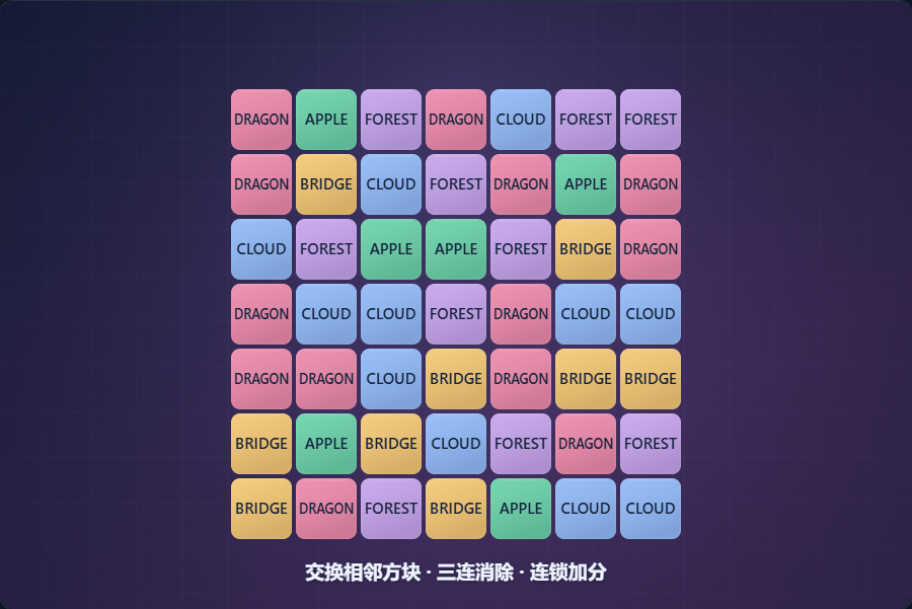
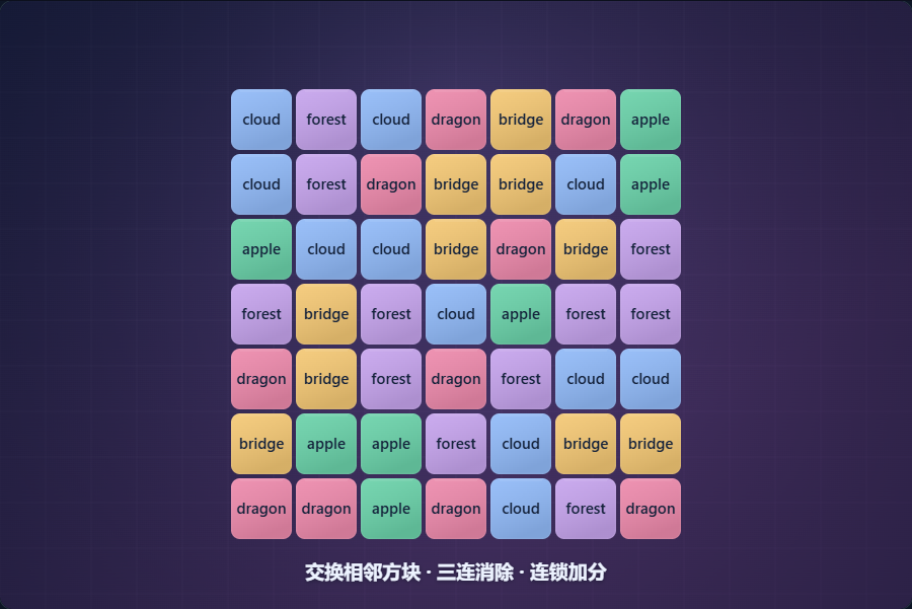
Display game vocabulary in lowercase while preserving special casing

Changed region(s): [[0.2456, 0.1248, 0.7675, 0.9048]]

diff --git a/arcade/classic.js b/arcade/classic.js
@@ -30,12 +30,12 @@ function wordSearch(){const puzzle=ArcadeRules.search(words),found=new Set();let
 }
 function crossword(){const puzzle=ArcadeRules.crossword(words);if(puzzle.entries.length<2){shell('G02','纵横填字','<h2>这些词暂时无法组成交叉网格</h2><p>请在词库中增加有相同字母的单词，例如 apple、plane、pencil。</p>','单词需要共享至少一个字母才能纵横交叉。');return}
   let selected=puzzle.entries[0],active=selected.cells[0];const values=new Map(),key=p=>p.r+','+p.c;const starts=new Map(puzzle.entries.map(e=>[key({r:e.r,c:e.c}),e.number]));
-  shell('G02','纵横填字',`<h2>纵横交叉，共享字母</h2><div class="cross-current" id="current-clue"></div><div class="cross-scroll"><div class="cross classic-cross" style="--cols:${puzzle.cols}">${puzzle.grid.flatMap((row,r)=>row.map((ch,c)=>ch?`<label class="cross-square" data-cell="${r},${c}"><small>${starts.get(`${r},${c}`)||''}</small><input maxlength="1" class="cell" data-r="${r}" data-c="${c}" aria-label="第 ${r+1} 行第 ${c+1} 列" autocomplete="off" autocapitalize="characters" spellcheck="false"></label>`:'<div class="cross-block"></div>')).join('')}</div></div><div class="cross-clues">${['across','down'].map(axis=>`<section><h3>${axis==='across'?'横向 →':'纵向 ↓'}</h3>${puzzle.entries.filter(e=>e.axis===axis).sort((a,b)=>a.number-b.number).map(e=>`<button data-entry="${puzzle.entries.indexOf(e)}">${e.number}. ${esc(e.zh)}（${e.en.length}）</button>`).join('')}</section>`).join('')}</div><button id="check" class="primary">检查答案</button> <button id="direction">切换横 / 纵</button><p id="result" role="status"></p>${puzzle.omitted.length?`<p class="muted">本盘 ${puzzle.entries.length} 个相互交叉的词。另有 ${puzzle.omitted.length} 个词未能拼入本盘。</p>`:''}`,'依据横向和纵向线索填入单词。交叉格由两个单词共享；点击线索切换单词，连续输入自动前进。方向键移动，空格或交叉格重复点击切换方向，退格删除。');
+  shell('G02','纵横填字',`<h2>纵横交叉，共享字母</h2><div class="cross-current" id="current-clue"></div><div class="cross-scroll"><div class="cross classic-cross" style="--cols:${puzzle.cols}">${puzzle.grid.flatMap((row,r)=>row.map((ch,c)=>ch?`<label class="cross-square" data-cell="${r},${c}"><small>${starts.get(`${r},${c}`)||''}</small><input maxlength="1" class="cell" data-r="${r}" data-c="${c}" aria-label="第 ${r+1} 行第 ${c+1} 列" autocomplete="off" autocapitalize="off" spellcheck="false"></label>`:'<div class="cross-block"></div>')).join('')}</div></div><div class="cross-clues">${['across','down'].map(axis=>`<section><h3>${axis==='across'?'横向 →':'纵向 ↓'}</h3>${puzzle.entries.filter(e=>e.axis===axis).sort((a,b)=>a.number-b.number).map(e=>`<button data-entry="${puzzle.entries.indexOf(e)}">${e.number}. ${esc(e.zh)}（${e.en.length}）</button>`).join('')}</section>`).join('')}</div><button id="check" class="primary">检查答案</button> <button id="direction">切换横 / 纵</button><p id="result" role="status"></p>${puzzle.omitted.length?`<p class="muted">本盘 ${puzzle.entries.length} 个相互交叉的词。另有 ${puzzle.omitted.length} 个词未能拼入本盘。</p>`:''}`,'依据横向和纵向线索填入单词。交叉格由两个单词共享；点击线索切换单词，连续输入自动前进。方向键移动，空格或交叉格重复点击切换方向，退格删除。');
   const inputs=[...document.querySelectorAll('.classic-cross input')],bykey=new Map(inputs.map(b=>[key({r:+b.dataset.r,c:+b.dataset.c}),b]));function select(entry,p,focus=true){selected=entry;active=p||entry.cells[0];document.querySelectorAll('.cross-square').forEach(b=>{b.classList.toggle('word-active',selected.cells.some(p=>key(p)===b.dataset.cell));b.classList.toggle('cell-active',b.dataset.cell===key(active))});document.querySelectorAll('[data-entry]').forEach(b=>b.classList.toggle('clue-active',puzzle.entries[+b.dataset.entry]===selected));document.querySelector('#current-clue').textContent=`${entry.number} ${entry.axis==='across'?'横向 →':'纵向 ↓'} · ${entry.zh}（${entry.en.length} 个字母）`;if(focus)bykey.get(key(active)).focus()}
   function toggle(){let options=puzzle.entries.filter(e=>e.cells.some(p=>key(p)===key(active)));select(options.find(e=>e!==selected)||selected,active)}
   function step(delta){let i=selected.cells.findIndex(p=>key(p)===key(active));if(selected.cells[i+delta])select(selected,selected.cells[i+delta])}
-  function check(auto=false){let right=inputs.filter(b=>b.value.toUpperCase()===puzzle.grid[+b.dataset.r][+b.dataset.c]).length;updateScore(`已填 ${inputs.filter(b=>b.value).length}/${inputs.length} 格`);if(right===inputs.length){inputs.forEach(b=>b.disabled=true);finish('G02',puzzle.entries.length*100,'纵横填字完成！')}else if(!auto){inputs.forEach(b=>b.parentElement.classList.toggle('incorrect',!!b.value&&b.value.toUpperCase()!==puzzle.grid[+b.dataset.r][+b.dataset.c]));document.querySelector('#result').textContent='已标出不正确的字母。空格还需要继续填写。'}}
-  inputs.forEach(b=>{let p={r:+b.dataset.r,c:+b.dataset.c};on(b,'click',()=>{if(round.done)return;if(key(active)===key(p))toggle();else select(puzzle.entries.find(e=>e.axis===selected.axis&&e.cells.some(x=>key(x)===key(p)))||puzzle.entries.find(e=>e.cells.some(x=>key(x)===key(p))),p)});on(b,'input',()=>{b.value=b.value.replace(/[^a-z]/ig,'').toUpperCase();values.set(key(p),b.value);b.parentElement.classList.remove('incorrect');if(b.value)step(1);check(true)});on(b,'keydown',e=>{if(round.done)return;if(e.key===' '){e.preventDefault();toggle()}else if(e.key==='Backspace'){e.preventDefault();if(!b.value)step(-1);let input=bykey.get(key(active));input.value='';input.parentElement.classList.remove('incorrect');check(true)}else if(e.key==='Tab'){e.preventDefault();let i=puzzle.entries.indexOf(selected);select(puzzle.entries[(i+(e.shiftKey?-1:1)+puzzle.entries.length)%puzzle.entries.length])}else if(e.key.startsWith('Arrow')){e.preventDefault();let dr=e.key==='ArrowDown'?1:e.key==='ArrowUp'?-1:0,dc=e.key==='ArrowRight'?1:e.key==='ArrowLeft'?-1:0,np={r:p.r+dr,c:p.c+dc};if(bykey.has(key(np)))select(puzzle.entries.find(x=>x.axis===(dr?'down':'across')&&x.cells.some(t=>key(t)===key(np)))||selected,np)}})});
+  function check(auto=false){let right=inputs.filter(b=>b.value.toLowerCase()===puzzle.grid[+b.dataset.r][+b.dataset.c].toLowerCase()).length;updateScore(`已填 ${inputs.filter(b=>b.value).length}/${inputs.length} 格`);if(right===inputs.length){inputs.forEach(b=>b.disabled=true);finish('G02',puzzle.entries.length*100,'纵横填字完成！')}else if(!auto){inputs.forEach(b=>b.parentElement.classList.toggle('incorrect',!!b.value&&b.value.toLowerCase()!==puzzle.grid[+b.dataset.r][+b.dataset.c].toLowerCase()));document.querySelector('#result').textContent='已标出不正确的字母。空格还需要继续填写。'}}
+  inputs.forEach(b=>{let p={r:+b.dataset.r,c:+b.dataset.c};on(b,'click',()=>{if(round.done)return;if(key(active)===key(p))toggle();else select(puzzle.entries.find(e=>e.axis===selected.axis&&e.cells.some(x=>key(x)===key(p)))||puzzle.entries.find(e=>e.cells.some(x=>key(x)===key(p))),p)});on(b,'input',()=>{const letter=b.value.replace(/[^a-z]/ig,'');const expected=puzzle.grid[p.r][p.c];b.value=expected===expected.toUpperCase()?letter.toUpperCase():letter.toLowerCase();values.set(key(p),b.value);b.parentElement.classList.remove('incorrect');if(b.value)step(1);check(true)});on(b,'keydown',e=>{if(round.done)return;if(e.key===' '){e.preventDefault();toggle()}else if(e.key==='Backspace'){e.preventDefault();if(!b.value)step(-1);let input=bykey.get(key(active));input.value='';input.parentElement.classList.remove('incorrect');check(true)}else if(e.key==='Tab'){e.preventDefault();let i=puzzle.entries.indexOf(selected);select(puzzle.entries[(i+(e.shiftKey?-1:1)+puzzle.entries.length)%puzzle.entries.length])}else if(e.key.startsWith('Arrow')){e.preventDefault();let dr=e.key==='ArrowDown'?1:e.key==='ArrowUp'?-1:0,dc=e.key==='ArrowRight'?1:e.key==='ArrowLeft'?-1:0,np={r:p.r+dr,c:p.c+dc};if(bykey.has(key(np)))select(puzzle.entries.find(x=>x.axis===(dr?'down':'across')&&x.cells.some(t=>key(t)===key(np)))||selected,np)}})});
   document.querySelectorAll('[data-entry]').forEach(b=>on(b,'click',()=>{if(!round.done)select(puzzle.entries[+b.dataset.entry])}));on(document.querySelector('#direction'),'click',()=>{if(!round.done)toggle()});on(document.querySelector('#check'),'click',()=>{if(!round.done)check()});select(selected,active,false);updateScore(`已填 0/${inputs.length} 格`);
 }
 function catchGame(){let pool=ArcadeRules.normalize(words),target=pool[0],objects=[],score=0,lives=3,combo=0,level=1,x=450,elapsed=0,spawn=0,running=false,paused=false,last=0;const keys=new Set();

diff --git a/arcade/games-action.js b/arcade/games-action.js
@@ -1,12 +1,12 @@
 Arcade.register('G15',()=>{
  const e=Arcade.start('G15','移动磁铁，按住吸附键将附近字母吸向自己，松开字母会继续惯性漂移。按目标顺序吸到字母组成单词，错误字母会弹开。完成 3 个词获胜。',[{key:' ',label:'按住磁吸'}]);
- let player={x:450,y:320},letters=[],index=0,completed=0;function setup(){index=0;letters=[...e.target.en,...'AEIOUXYZ'].map(ch=>({ch,x:Arcade.rand(70,830),y:Arcade.rand(90,530),vx:Arcade.rand(-20,20),vy:Arcade.rand(-20,20),cool:0}));e.mission(`磁力拼词：${e.target.zh} · ${e.target.en}　先吸 ${e.target.en[0]}`)}setup();e.move=p=>{if(e.pointer.down){player.x=p.x;player.y=p.y}};
+ let player={x:450,y:320},letters=[],index=0,completed=0;function setup(){index=0;letters=[...e.target.en,...'aeiouxyz'].map(ch=>({ch,x:Arcade.rand(70,830),y:Arcade.rand(90,530),vx:Arcade.rand(-20,20),vy:Arcade.rand(-20,20),cool:0}));e.mission(`磁力拼词：${e.target.zh} · ${e.target.en}　先吸 ${e.target.en[0]}`)}setup();e.move=p=>{if(e.pointer.down){player.x=p.x;player.y=p.y}};
  e.update=dt=>{player.x+=((e.keys.has('ArrowRight')?1:0)-(e.keys.has('ArrowLeft')?1:0))*240*dt;player.y+=((e.keys.has('ArrowDown')?1:0)-(e.keys.has('ArrowUp')?1:0))*240*dt;player.x=Arcade.clamp(player.x,30,870);player.y=Arcade.clamp(player.y,70,565);for(const l of letters){l.cool=Math.max(0,l.cool-dt);let d=Arcade.dist(l,player);if((e.keys.has(' ')||e.pointer.down)&&d<180){l.vx+=(player.x-l.x)/(d||1)*400*dt;l.vy+=(player.y-l.y)/(d||1)*400*dt}l.x+=l.vx*dt;l.y+=l.vy*dt;l.vx*=Math.pow(.7,dt);l.vy*=Math.pow(.7,dt);if(l.x<25||l.x>875){l.vx*=-.8;l.x=Arcade.clamp(l.x,25,875)}if(l.y<70||l.y>575){l.vy*=-.8;l.y=Arcade.clamp(l.y,70,575)}if(d<32&&!l.cool){if(l.ch===e.target.en[index]){l.remove=true;index++;e.score+=30;if(index===e.target.en.length){completed++;if(completed>=3){e.end(true,'磁力拼词完成！');return}e.nextWord();setup();break}e.mission(`${e.target.zh} · ${e.target.en.slice(0,index)}${'＿'.repeat(e.target.en.length-index)}　下一个 ${e.target.en[index]}`)}else {l.vx=(l.x-player.x)*12;l.vy=(l.y-player.y)*12;l.cool=1;e.score=Math.max(0,e.score-5)}}}letters=letters.filter(l=>!l.remove);e.hud(`完成 ${completed}/3 · ${Math.max(0,90-Math.floor(e.elapsed))} 秒`);if(e.elapsed>=90)e.end(false,'磁吸时间结束')};
  e.draw=()=>{if(e.keys.has(' ')||e.pointer.down)e.circle(player.x,player.y,180,'#4a9e7d22');letters.forEach(l=>{e.circle(l.x,l.y,21,'#f0c477');e.text(l.ch,l.x,l.y+7,23,'#10243b')});e.text('∩',player.x,player.y+15,65,'#7aebc0');e.text(`已完成 ${completed} 个词`,450,35,19)};e.state={player,get letters(){return letters},get index(){return index}};
 });
 function letterVoyage(id,underwater){
  const e=Arcade.start(id,underwater?'方向键或拖动驾驶潜水员，在氧气耗尽前按顺序收集字母。回到上方水面可以补充氧气；避开水母和暗流。收齐一个词后返回水面交付，共 3 个。':'方向键驾驶飞船，存在惯性，反向推力可以刹车。按顺序收集字母，避开小行星；场地边缘可穿越。完成 3 个词。',[{key:' ',label:underwater?'快速上浮':'刹车'}]);
- let player={x:450,y:underwater?55:300,vx:0,vy:0},letters=[],hazards=[],index=0,done=0,oxygen=100,ready=false;function setup(){index=0;ready=false;letters=[...e.target.en,...'XYZ'].map(ch=>({ch,x:Arcade.rand(60,840),y:Arcade.rand(underwater?170:80,540)}));hazards=Array.from({length:underwater?5:7},()=>({x:Arcade.rand(50,850),y:Arcade.rand(180,550),vx:Arcade.rand(-55,55),vy:Arcade.rand(-30,30),r:underwater?23:28}));e.mission(`${underwater?'深海寻字母':'星际收集'}：${e.target.zh} · ${e.target.en}`)}setup();
+ let player={x:450,y:underwater?55:300,vx:0,vy:0},letters=[],hazards=[],index=0,done=0,oxygen=100,ready=false;function setup(){index=0;ready=false;letters=[...e.target.en,...'xyz'].map(ch=>({ch,x:Arcade.rand(60,840),y:Arcade.rand(underwater?170:80,540)}));hazards=Array.from({length:underwater?5:7},()=>({x:Arcade.rand(50,850),y:Arcade.rand(180,550),vx:Arcade.rand(-55,55),vy:Arcade.rand(-30,30),r:underwater?23:28}));e.mission(`${underwater?'深海寻字母':'星际收集'}：${e.target.zh} · ${e.target.en}`)}setup();
  e.move=p=>{if(e.pointer.down){player.vx=(p.x-player.x)*2;player.vy=(p.y-player.y)*2}};
  e.update=dt=>{let ax=(e.keys.has('ArrowRight')?1:0)-(e.keys.has('ArrowLeft')?1:0),ay=(e.keys.has('ArrowDown')?1:0)-(e.keys.has('ArrowUp')?1:0);player.vx+=ax*290*dt;player.vy+=ay*290*dt;if(e.keys.has(' ')){if(underwater)player.vy-=500*dt;else {player.vx*=.86;player.vy*=.86}}player.vx=Arcade.clamp(player.vx,-230,230);player.vy=Arcade.clamp(player.vy,-230,230);player.x+=player.vx*dt;player.y+=player.vy*dt;player.vx*=Math.pow(underwater?.35:.8,dt);player.vy*=Math.pow(underwater?.35:.8,dt);
    if(underwater){player.x=Arcade.clamp(player.x,25,875);player.y=Arcade.clamp(player.y,45,565);if(player.y<85){oxygen=Math.min(100,oxygen+60*dt);if(ready){done++;e.score+=200;if(done>=3){e.end(true,'深海任务完成！');return}e.nextWord();setup()}}else oxygen-=4*dt;if(oxygen<=0){e.hit();oxygen=100;player.y=55;player.vy=0}}else {player.x=(player.x+900)%900;player.y=(player.y+600)%600}

diff --git a/js/episode-games.js b/js/episode-games.js
@@ -3,7 +3,8 @@
 const EpisodeGames=(()=>{
  const ids=Array.from({length:27},(_,i)=>'G'+String(i+2).padStart(2,'0'));
  const escape=s=>String(s).replace(/[&<>"']/g,c=>({'&':'&amp;','<':'&lt;','>':'&gt;','"':'&quot;',"'":'&#39;'}[c]));
- function pack(vocab){const words=[],excluded=[],seen=new Set();for(const w of vocab||[]){const en=String(w.word||'').trim(),zh=String(w.meaningZh||w.meaning||'').trim();if(!/^[a-z]{2,16}$/i.test(en)||!zh){excluded.push(en||'未命名单词');continue}if(seen.has(en.toUpperCase()))continue;seen.add(en.toUpperCase());words.push({en,zh})}return {words,excluded}}
+ // Words is authoritative for proper names; do not capitalize ordinary vocabulary.
+ function pack(vocab){const words=[],excluded=[],seen=new Set();for(const w of vocab||[]){const raw=String(w.word||'').trim(),zh=String(w.meaningZh||w.meaning||'').trim();if(!/^[a-z]{2,16}$/i.test(raw)||!zh){excluded.push(raw||'未命名单词');continue}const key=raw.toLowerCase();if(seen.has(key))continue;seen.add(key);const preserveCase=w.preserveCase===true||/proper|专有/i.test(w.partOfSpeech||'')||(/^[A-Z][a-z]+$/.test(raw)&&!['Good','Thank','Internet'].includes(raw))||/^(TV|CD|DVD|BC|AD|AM|PM|USA|UK|US|UN|EU|NASA|BBC|DNA|RNA|USB|AI|IT|ABCs)$/.test(raw);words.push({en:preserveCase?raw:key,zh,preserveCase})}return {words,excluded}}
  function choose(previous=[]){const pool=ids.filter(id=>!previous.includes(id));for(let i=pool.length-1;i>0;i--){let j;do{const n=new Uint32Array(1);crypto.getRandomValues(n);const limit=Math.floor(4294967296/(i+1))*(i+1);if(n[0]<limit){j=n[0]%(i+1);break}}while(true);[pool[i],pool[j]]=[pool[j],pool[i]]}return pool.slice(0,3)}
  function panel(d){const p=pack(d.vocab);if(p.words.length<4)return `<section class="episode-games-empty"><h2>Games · 本集词汇游戏</h2><p>本集暂时没有足够的可用单词（至少需要 4 个）。</p><p>请先学习 Words；我们不会使用其他集或示例词填充游戏。</p>${p.excluded.length?`<p>暂不支持的词条：${p.excluded.map(escape).join('、')}</p>`:''}</section>`;
  return `<section class="episode-games"><div class="episode-games-head"><div><h2>Games · 本集词汇游戏</h2><p>Episode ${escape(d.episodeId)} · ${p.words.length} 个本集单词 · 每次打开随机出现 3 款</p></div><button class="btn secondary games-refresh" type="button">🎲 换一组游戏</button></div>${p.excluded.length?`<details class="games-exclusions"><summary>${p.excluded.length} 个词条暂不适用于游戏</summary><p>${p.excluded.map(escape).join('、')}</p><p>目前游戏支持 2–16 个英文字母的单词；短语、含标点的词及缺少中文释义的词仍保留在 Words 中，不拆词或替换。</p></details>`:''}<p class="games-practice-note">游戏为课后练习，不影响 Quiz 解锁进度。“换一组”会结束当前游戏。</p><iframe class="episode-games-frame" title="Episode ${escape(d.episodeId)} 词汇游戏" src="arcade/index.html?embedded=1" allow="fullscreen" loading="eager"></iframe></section>`}

diff --git a/arcade/rules.js b/arcade/rules.js
@@ -1,12 +1,12 @@
 /* Original algorithms for the vocabulary arcade; no third-party assets. */
 (function(root){
   const shuffle=a=>{a=[...a];for(let i=a.length-1;i>0;i--){let j=Math.floor(Math.random()*(i+1));[a[i],a[j]]=[a[j],a[i]]}return a};
-  function normalize(a){const seen=new Set();return a.filter(w=>/^[a-z]{2,16}$/i.test(w.en)&&w.zh&&!seen.has(w.en.toUpperCase())&&seen.add(w.en.toUpperCase())).map(w=>({...w,en:w.en.toUpperCase()}))}
+  function normalize(a){const seen=new Set();return a.filter(w=>/^[a-z]{2,16}$/i.test(w.en)&&w.zh&&!seen.has(w.en.toLowerCase())&&seen.add(w.en.toLowerCase())).map(w=>({...w,en:w.preserveCase?w.en:w.en.toLowerCase()}))}
   const dirs=[[-1,-1],[-1,0],[-1,1],[0,-1],[0,1],[1,-1],[1,0],[1,1]];
   function search(a){const pool=shuffle(normalize(a)).slice(0,8),size=Math.max(10,...pool.map(w=>w.en.length+1)),grid=Array.from({length:size},()=>Array(size).fill('')),entries=[];
     for(const w of pool){const candidates=[];for(let r=0;r<size;r++)for(let c=0;c<size;c++)for(const [dr,dc] of dirs){const cells=Array.from(w.en,(_,i)=>({r:r+i*dr,c:c+i*dc}));if(cells.every((p,i)=>p.r>=0&&p.c>=0&&p.r<size&&p.c<size&&(!grid[p.r][p.c]||grid[p.r][p.c]===w.en[i])))candidates.push(cells)}
       if(!candidates.length)continue;const cells=shuffle(candidates)[0];cells.forEach((p,i)=>grid[p.r][p.c]=w.en[i]);entries.push({...w,cells});}
-    grid.forEach(row=>row.forEach((v,i)=>{if(!v)row[i]=String.fromCharCode(65+Math.floor(Math.random()*26))}));return {grid,size,entries};
+    grid.forEach(row=>row.forEach((v,i)=>{if(!v)row[i]=String.fromCharCode(97+Math.floor(Math.random()*26))}));return {grid,size,entries};
   }
   function line(a,b){let dr=b.r-a.r,dc=b.c-a.c;if(dr&&dc&&Math.abs(dr)!==Math.abs(dc))return [];let n=Math.max(Math.abs(dr),Math.abs(dc));return Array.from({length:n+1},(_,i)=>({r:a.r+i*Math.sign(dr),c:a.c+i*Math.sign(dc)}))}
   function crossword(a){const pool=normalize(a);let best=null;

diff --git a/arcade/games-puzzles.js b/arcade/games-puzzles.js
@@ -33,7 +33,7 @@ Arcade.register('G07',()=>{
 Arcade.register('G20',()=>{
  const e=Arcade.start('G20','连接相邻字母组成词库中的词，可以横、竖、斜向转弯，同一条路径不能重复格子。找到所有主题词和贯穿两侧的主题词即可完成。',[{key:'x',label:'提示（扣分）'},{key:' ',label:'提交路径'}]);
  const list=ArcadeRules.shuffle(e.pool).slice(0,6).sort((a,b)=>b.en.length-a.en.length),cols=Math.min(6,list[0].en.length),total=list.reduce((n,w)=>n+w.en.length,0),rows=Math.ceil(total/cols),S=Math.min(66,450/rows),ox=450-cols*S/2,oy=70;let board=[],paths=[],cursor=0,found=new Set(),path=[];
- for(const w of list){let cells=[];for(const ch of w.en){let r=Math.floor(cursor/cols),c=r%2?cols-1-cursor%cols:cursor%cols;board[r*cols+c]=ch;cells.push(r*cols+c);cursor++}paths.push(cells)}for(let i=0;i<rows*cols;i++)board[i]??=String.fromCharCode(65+Math.random()*26|0);
+ for(const w of list){let cells=[];for(const ch of w.en){let r=Math.floor(cursor/cols),c=r%2?cols-1-cursor%cols:cursor%cols;board[r*cols+c]=ch;cells.push(r*cols+c);cursor++}paths.push(cells)}for(let i=0;i<rows*cols;i++)board[i]??=String.fromCharCode(97+Math.random()*26|0);
  function hud(){e.hud(`主题词 ${found.size}/${list.length}`);e.mission(`本盘词库主题 · ${list.map(w=>w.zh).join('、')}　金色贯穿词：${list[0].zh}`)}
  function cell(p){let c=Math.floor((p.x-ox)/S),r=Math.floor((p.y-oy)/S);return r>=0&&c>=0&&r<rows&&c<cols?r*cols+c:-1}
  function add(i){if(i<0||[...found].some(j=>paths[j].includes(i)))return;if(path.at(-2)===i){path.pop();return}if(path.includes(i))return;let last=path.at(-1);if(last!==undefined&&Math.max(Math.abs(Math.floor(last/cols)-Math.floor(i/cols)),Math.abs(last%cols-i%cols))!==1)return;path.push(i)}

diff --git a/arcade/index.html b/arcade/index.html
@@ -12,13 +12,13 @@
   <main id="app"></main>
   <footer>离线可用 · 成绩保存在这台设备的浏览器中</footer>
   <script src="app.js"></script>
-  <script src="rules.js"></script>
-  <script src="classic.js"></script>
+  <script src="rules.js?v=20261009-2"></script>
+  <script src="classic.js?v=20261009-2"></script>
   <script src="arcade-core.js"></script>
   <script src="visuals.js"></script>
-  <script src="games-puzzles.js"></script>
+  <script src="games-puzzles.js?v=20261009-2"></script>
   <script src="games-skill.js"></script>
-  <script src="games-action.js"></script>
+  <script src="games-action.js?v=20261009-2"></script>
   <script src="games-maze.js"></script>
   <script src="games-platform.js"></script>
   <script src="arcade-boot.js"></script>

diff --git a/index.html b/index.html
@@ -67,7 +67,7 @@
   <script src="js/read-dictionary.js?v=20261001-2"></script>
   <script src="js/client-protection.js?v=20261003-1"></script>
   <script src="js/movies.js?v=20261003-10"></script>
-  <script src="js/episode-games.js?v=20261009-1"></script>
+  <script src="js/episode-games.js?v=20261009-2"></script>
   <script src="js/app.js?v=20261009-1"></script>
 <div id="readingPopup" class="reading-popup"></div>
 </body>

diff --git a/README.md b/README.md
@@ -6,6 +6,7 @@
 
 - 每次打开 Games，从 27 款游戏随机抽取 3 款不重复游戏；本次窗口内保持这 3 款。“换一组”结束当前游戏，并抽取另 3 款。
 - 游戏支持 2–16 个 A–Z 字母的单词，重复拼写去重；短语、标点词、缺中文释义的词不拆分，页面明确列出未参与的词条。可用词少于 4 个时显示提示，不拿示例词补齐。
+- 游戏普通单词和干扰字母使用小写，不再整体转大写。Words 中原有的专名大小写、固定缩写（如 Venus、Guanyin、TV、CD）保留；词条也可用 `preserveCase: true` 显式保留特殊拼写。填字接受大小写输入，按格子的规范大小写显示。
 - 游戏在独立 iframe 中运行，键盘、暂停、词库互不干扰；关闭窗口或切换模块结束游戏。成绩按系列与集数保存在本机 `episodeArcadeScores:<series>:<episode>`，不修改原有 Quiz 解锁规则，也不自动发放奖励积分。
 - 入口及词库传递：`js/episode-games.js`；完整游戏库：`arcade/`；只允许本次 3 款及本集词库：`arcade/episode-bridge.js`。
 
